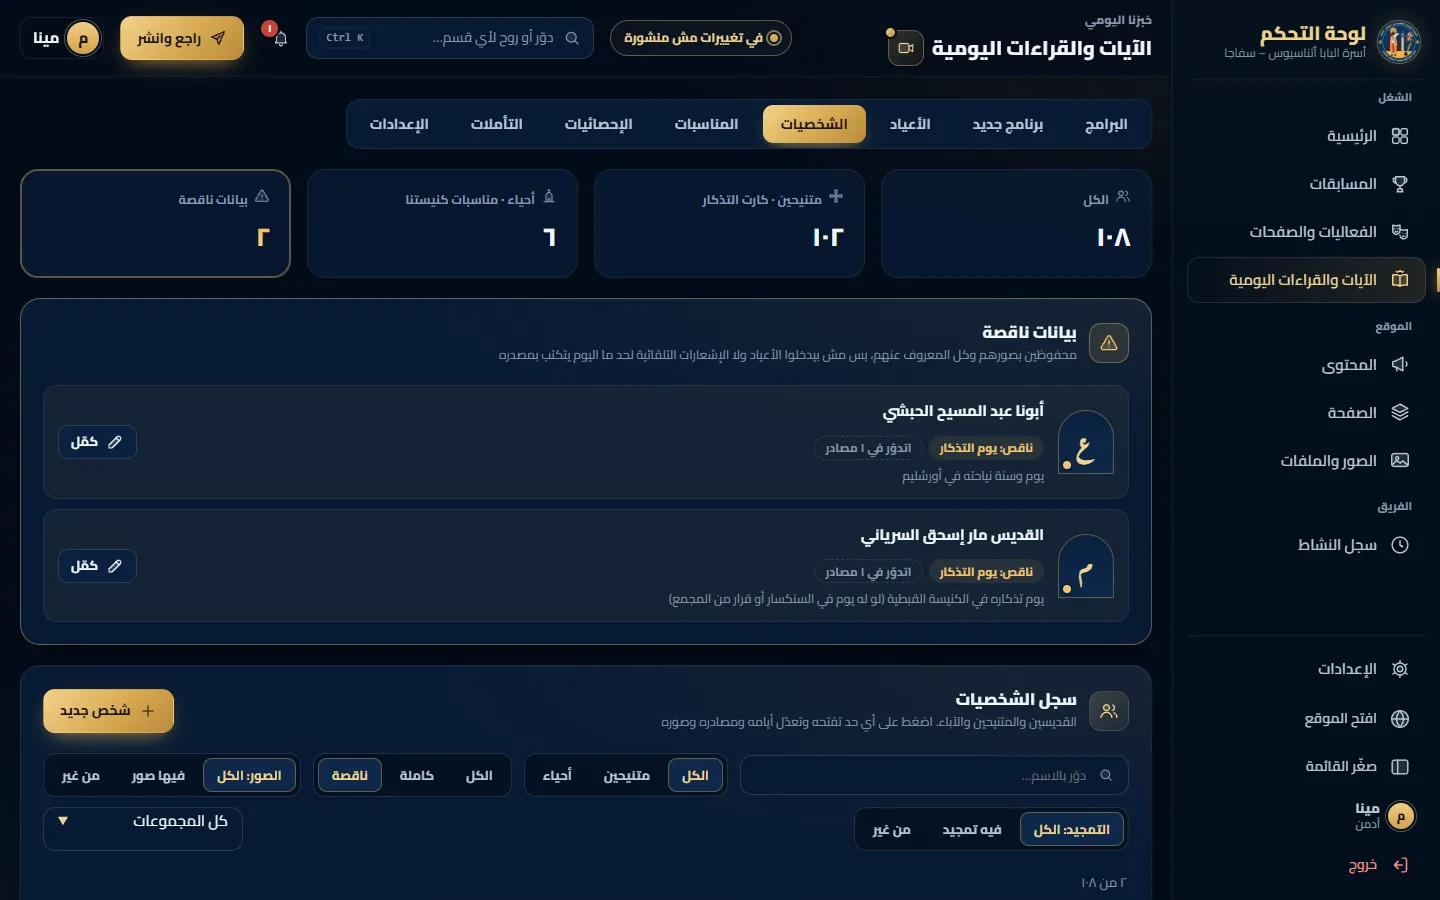
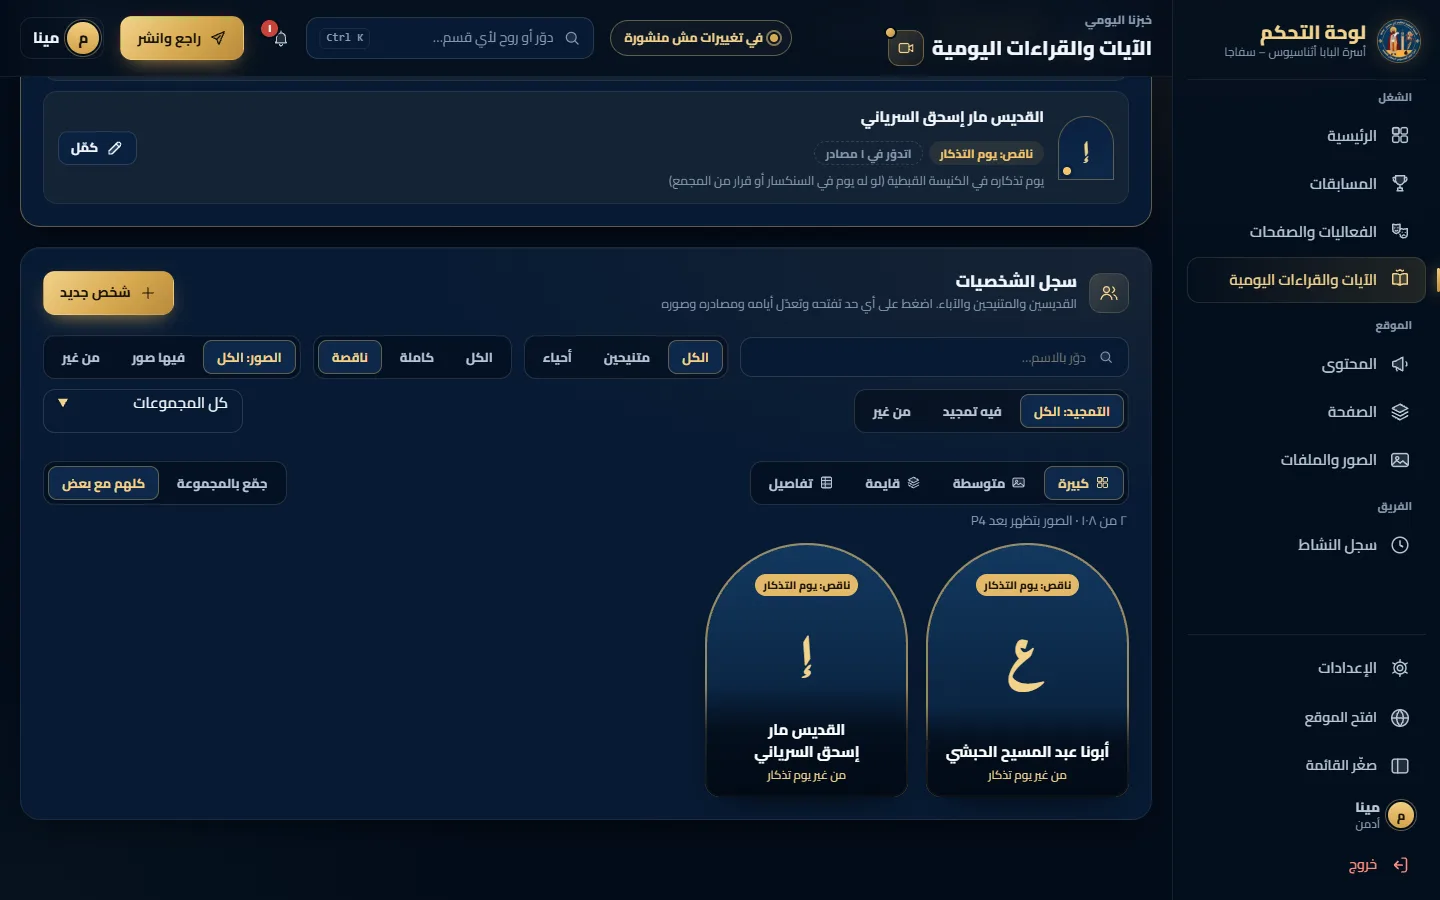
docs(daily-bread): P3 preview - picture-first people list (large/medium/list/details, grouped), photos in the person page
The owner's pictures are read only by a review server (thumbnails outside the repo);
shots with them stay local (gitignored), the repository keeps letter-only shots.

diff --git a/docs/daily-bread/saints/p3/index.html b/docs/daily-bread/saints/p3/index.html
@@ -13,7 +13,7 @@
 <main class="rv">
   <header>
     <h1>P3 — سجل الشخصيات من الأدمن</h1>
-    <p class="rv-lead">الشاشات الجديدة جوه «الآيات والقراءات اليومية»، على الأدمن الحقيقي نفسه (8B): نفس الشريط والتبويبات والكروت والألوان والخطوط والأيقونات. البيانات هي السجل الحقيقي بتاع P2 (١٠٨ شخص)، والتواريخ القبطية متحسوبة بالكود. كل شاشة متصورة كمبيوتر ١٤٤٠ وموبايل ٣٩٠. <b>محدش بيحفظ حاجة هنا</b>: دي معاينة بس. <a href="admin.html" style="color:var(--gold-hi)">افتح المعاينة اللي تتجرب ↗</a> · <a href="../P3-PLAN.md" style="color:var(--gold-hi)">الخطة وقرار التخزين</a></p>
+    <p class="rv-lead">الشاشات الجديدة جوه «الآيات والقراءات اليومية»، على الأدمن الحقيقي نفسه (8B): نفس الشريط والتبويبات والكروت والألوان والخطوط والأيقونات. البيانات هي السجل الحقيقي بتاع P2 (١٠٨ شخص)، والتواريخ القبطية متحسوبة بالكود. كل شاشة متصورة كمبيوتر ١٤٤٠ وموبايل ٣٩٠. <b>محدش بيحفظ حاجة هنا</b>: دي معاينة بس. الصور بتتقرا من فولدرك للعرض بس (من غير نسخ ولا تعديل)، وصورها متحفظة على الجهاز ده بس، مش في الريبو، لحد P4. <a href="admin.html" style="color:var(--gold-hi)">افتح المعاينة اللي تتجرب ↗</a> · <a href="../P3-PLAN.md" style="color:var(--gold-hi)">الخطة وقرار التخزين</a></p>
     <p class="rv-lead" id="live">التبويبات القديمة (البرامج، والأعياد، والإحصائيات…) زي ما هي في الأدمن، ومش جزء من المعاينة. صورة «الأعياد» الحقيقية في الأول للمقارنة.</p>
   </header>
   <ol class="rv-decide">
@@ -28,6 +28,10 @@
 const S = [
   ['00-live-feasts', '', 'الأدمن الحقيقي النهارده: «الأعياد» (للمقارنة)', 'ده المرجع: الشاشات الجديدة بنفس المكونات.'],
   ['01-people', '?s=people&dirty=1', 'الشخصيات', 'الأرقام فوق بتشتغل كفلتر. كارت «بيانات ناقصة» فيه كل ناقص والحقل الناقص واللي اتدوّر فيه. تحته الفلاتر (النوع، كاملة/ناقصة، الصور، التمجيد، المجموعة) والبحث، وكل شخص بيومه الجاي بالقبطي والميلادي. الشريط فوق بيظهر لما يبقى فيه تعديل محفوظ ومش منشور.'],
+  ['01a-people-large', '?s=people&v=large&g=cat#list', 'العرض: صور كبيرة', 'زي فولدر في Windows: صورة كبيرة والاسم عليها ويومه الجاي، ومجمّعين بالمجموعة. دوسة على الصورة بتفتح الشخص. الحي عليه «حي» دهبي، والناقص إطاره برتقاني ومكتوب الناقص. الصورة التعبيرية مكتوب عليها «صورة تعبيرية» صغيرة.'],
+  ['01b-people-medium', '?s=people&v=medium&g=cat#list', 'العرض: صور متوسطة', 'صور أصغر، والاسم بس. أسرع لما تدوّر بعينك.'],
+  ['01c-people-list', '?s=people&v=list&g=#list', 'العرض: قايمة', 'صف تحت بعضه بنفس كروت «حسابات الشباب»، وفيه الأيام والتمجيد واليوم الجاي.'],
+  ['01d-people-details', '?s=people&v=details&g=#list', 'العرض: تفاصيل', 'جدول: الصورة، والاسم، والمجموعة، والنوع، وعدد الأيام، والجاي، والصور، والحالة. اختيارك للعرض بيتحفظ على جهازك.'],
   ['02-people-incomplete', '?s=people&f=incomplete', 'فلتر «بيانات ناقصة»', 'دوسة على «بيانات ناقصة» بتعرض الناقصين بس.'],
   ['03-person-theophilus', '?s=person&id=theophilus', 'الشخص: الأنبا ثاؤفيلس', 'أيام التذكار (كل يوم بتحويله ومصدره)، ومحطات العمر بحالتها (مؤكد، من الفيلم، فيه اختلاف)، والألبوم، والبيانات الأساسية. فوق: فين بيظهر بالظبط.'],
   ['04-person-day', '?s=person&id=mary&m=day&i=0', 'تعديل يوم', 'قبطي أو ميلادي. أول ما تغيّر الشهر أو اليوم، التحويل بيظهر تحته على طول (السنة دي واللي بعدها، وسنة الحدث لو مكتوبة). المصدر https لازم.'],
@@ -42,7 +46,8 @@ const S = [
   ['13-published', '?s=publish&done=1', 'بعد النشر', 'النسخة الجديدة على الموقع، وأي نسخة قبلها ترجع بدوسة.'],
   ['14-delete', '?s=person&id=isaacsyrian&m=delete', 'شيل شخص', 'بتأكيد مكتوب، ويرجع قبل النشر.']
 ];
-const img = (id, k) => `<a class="${k}" href="shots/${id}-${k}.webp" target="_blank"><img src="shots/${id}-${k}.webp" alt=""></a>`;
+// shots-local/ (with your pictures, on this machine only) first; shots/ (letters, in the repository) otherwise
+const img = (id, k) => `<a class="${k}" href="shots-local/${id}-${k}.webp" target="_blank"><img src="shots-local/${id}-${k}.webp" onerror="this.onerror=null;this.src='shots/${id}-${k}.webp';this.parentNode.href=this.src" alt=""></a>`;
 document.getElementById('list').innerHTML = S.map(([id, qs, t, p]) => `<section class="widget rv-fig" id="${id}"><header><b>${t}</b>${qs ? `<a href="admin.html${qs}" target="_blank">افتح المعاينة ↗</a>` : ''}<code>${id}</code></header><div class="rv-shots">${img(id, 'm')}${img(id, 'd')}</div><p>${p}</p></section>`).join('');
 </script>
 </body>

diff --git a/docs/daily-bread/saints/p3/p3-admin.css b/docs/daily-bread/saints/p3/p3-admin.css
@@ -139,3 +139,53 @@
   .sa-dirty { top: 4px; }
 }
 .sa .muted, .sa-modal .muted { color: var(--text-3); }
+
+/* the list's look (owner 2026-11-24): like a folder in Windows — كبيرة / متوسطة / قايمة / تفاصيل, grouped or not */
+.sa-viewbar { display: flex; flex-wrap: wrap; gap: 10px; justify-content: space-between; align-items: center; margin-top: 12px; }
+.sa-views .seg__opt span { display: inline-flex; gap: 6px; align-items: center; }
+.sa-views .ico-sm svg { width: 15px; height: 15px; }
+.sa-group { display: grid; gap: 12px; margin-top: 18px; }
+.sa-group__head { display: flex; align-items: baseline; gap: 10px; margin: 0; padding-bottom: 8px; border-bottom: 1px solid var(--p-line-2); font-size: 1rem; color: var(--gold); }
+.sa-group__head small { color: var(--text-3); font-size: .8rem; font-weight: 700; }
+.sa-ptiles { display: grid; gap: 18px; margin-top: 12px; }
+.sa-ptiles--large { grid-template-columns: repeat(auto-fill, minmax(190px, 1fr)); }
+.sa-ptiles--medium { grid-template-columns: repeat(auto-fill, minmax(128px, 1fr)); gap: 14px; }
+.sa-group .sa-ptiles { margin-top: 0; }
+.sa-ptile { all: unset; box-sizing: border-box; display: block; cursor: pointer; border-radius: 120px 120px 18px 18px; outline-offset: 3px; }
+.sa-ptile:focus-visible { outline: 2px solid rgb(var(--acc-rgb)); }
+.sa-ptile__frame { position: relative; display: grid; place-items: center; aspect-ratio: 4 / 5; overflow: hidden; border-radius: 120px 120px 18px 18px; background: linear-gradient(180deg, var(--navy-700), var(--navy-900)); box-shadow: inset 0 0 0 1px var(--line-strong), 0 16px 34px -22px #000; transition: transform .2s, box-shadow .2s; }
+.sa-ptile:hover .sa-ptile__frame { transform: translateY(-3px); box-shadow: inset 0 0 0 1px rgb(var(--acc-rgb) / .7), 0 22px 40px -22px #000; }
+.sa-ptile.is-living .sa-ptile__frame { box-shadow: inset 0 0 0 2px rgb(var(--acc-rgb) / .55), 0 16px 34px -22px #000; }
+.sa-ptile.is-incomplete .sa-ptile__frame { box-shadow: inset 0 0 0 2px rgb(var(--warn-rgb) / .6), 0 16px 34px -22px #000; }
+.sa-ptile__letter { font-family: "Aref Ruqaa", "Cairo", serif; font-size: 3.4rem; line-height: 1; color: var(--gold-hi); margin-bottom: 22%; }
+.sa-ptiles--medium .sa-ptile__letter { font-size: 2.4rem; }
+.sa-ptile__img { position: absolute; inset: 0; width: 100%; height: 100%; object-fit: cover; object-position: center 18%; }
+.sa-ptile__name { position: absolute; inset: auto 0 0; display: grid; gap: 2px; padding: 34px 12px 12px; text-align: center; background: linear-gradient(180deg, transparent, rgb(2 9 20 / .78) 42%, rgb(2 9 20 / .94)); }
+.sa-ptile__name b { font-size: .95rem; line-height: 1.45; color: #fff; text-wrap: balance; }
+.sa-ptile__name small { font-size: .74rem; color: var(--gold-hi); }
+.sa-ptiles--medium .sa-ptile__name { padding: 26px 8px 9px; }
+.sa-ptiles--medium .sa-ptile__name b { font-size: .8rem; }
+.sa-ptile__badges { position: absolute; inset: 12% 8px auto; display: flex; flex-wrap: wrap; gap: 4px; justify-content: center; }
+.sa-badge { padding: 2px 8px; border-radius: 999px; font-size: .68rem; font-weight: 800; backdrop-filter: blur(6px); }
+.sa-badge--warn { color: #1b1306; background: rgb(var(--warn-rgb) / .92); }
+.sa-badge--gold { color: #1b1306; background: var(--gold); }
+.sa-ptile__ai { justify-self: center; padding: 0 7px; border-radius: 6px; font-style: normal; font-size: .6rem; color: rgb(255 255 255 / .8); background: rgb(255 255 255 / .1); }
+.sa-ptiles--medium .sa-ptile__ai { display: none; }
+.sa-tablewrap { margin-top: 12px; }
+.sa-table tbody tr { cursor: pointer; }
+.sa-table tbody tr:hover td { background: rgb(var(--acc-rgb) / .06); }
+.sa-table td { vertical-align: middle; }
+.sa-table .ycard__face { width: 40px; height: 46px; }
+.sa-table .ycard__letter { font-size: 1.2rem; }
+.sa-muted { color: var(--text-3); }
+.sa-face--big { width: 112px; height: 132px; }
+@media (max-width: 720px) {
+  .sa-ptiles--large { grid-template-columns: repeat(2, minmax(0, 1fr)); gap: 12px; }
+  .sa-ptiles--medium { grid-template-columns: repeat(3, minmax(0, 1fr)); gap: 10px; }
+  .sa-ptile__letter { font-size: 2.6rem; }
+  .sa-viewbar { flex-direction: column; align-items: stretch; }
+  .sa-viewbar > * { min-width: 0; }
+  .sa-views { display: grid; grid-template-columns: repeat(4, minmax(0, 1fr)); }
+  .sa-views .seg__opt span { flex-direction: column; gap: 2px; font-size: .74rem; padding-inline: 2px; }
+  .sa-viewbar > .seg:not(.sa-views) { display: grid; grid-template-columns: 1fr 1fr; }
+}

diff --git a/docs/daily-bread/saints/P3-PROGRESS.md b/docs/daily-bread/saints/P3-PROGRESS.md
@@ -27,3 +27,12 @@
 ## الرجوع
 
 - الخطوة أ: ملفات في `docs/` بس (مستثناة من الموقع). الرجوع = `git revert` للـcommit بتاعها.
+
+## ملاحظة صاحب المشروع على المعاينة (2026-11-24)
+
+- **اتوافق** على باقي التصميم. الملاحظة كانت على قايمة الشخصيات: «تقليدية»، وعايز الصورة تبقى هي الأساس علشان يعرف الشخص من غير ما يتوه.
+- **اللي اتعمل:** القايمة بقى ليها ٤ أشكال عرض، زي فولدر في Windows: **كبيرة** (الافتراضي: صورة كبيرة على شكل قبة والاسم عليها ويومه الجاي)، و**متوسطة**، و**قايمة** (كروت زي «حسابات الشباب» بالصورة)، و**تفاصيل** (جدول). ومعاهم «جمّع بالمجموعة» أو «كلهم مع بعض». اختيار العرض بيتحفظ على الجهاز. صفحة الشخص بقى فيها صورته الكبيرة، والألبوم بصوره.
+- **الصور في المعاينة:** `p3/tools/serve.mjs` بيقرا فولدر الصور **قراية بس** ويعمل نسخ صغيرة في `tools/.cache/p3-thumbs/` (برّه الريبو). مفيش ملف في الفولدر اتغيّر أو اتنقل.
+  - الصور اللي فيها صورك في `p3/shots-local/` (على الجهاز ده بس، `.gitignore`)، لأن الريبو عام والصور مكانها P4. الصور اللي في الريبو (`p3/shots/`) بالحروف.
+  - التشغيل: `node docs/daily-bread/saints/p3/tools/serve.mjs 4342` ← http://localhost:4342/docs/daily-bread/saints/p3/
+- **البيانات:** المعاينة شغالة بالسجل الحقيقي بتاع P2 من الأول (١٠٨ شخص بأيامهم ومصادرهم). ملء قاعدة البيانات نفسها بيحصل في الخطوة ب (الاستيراد الأولاني، مرة واحدة)، والصور تدخل مكتبة الصور في P4.
